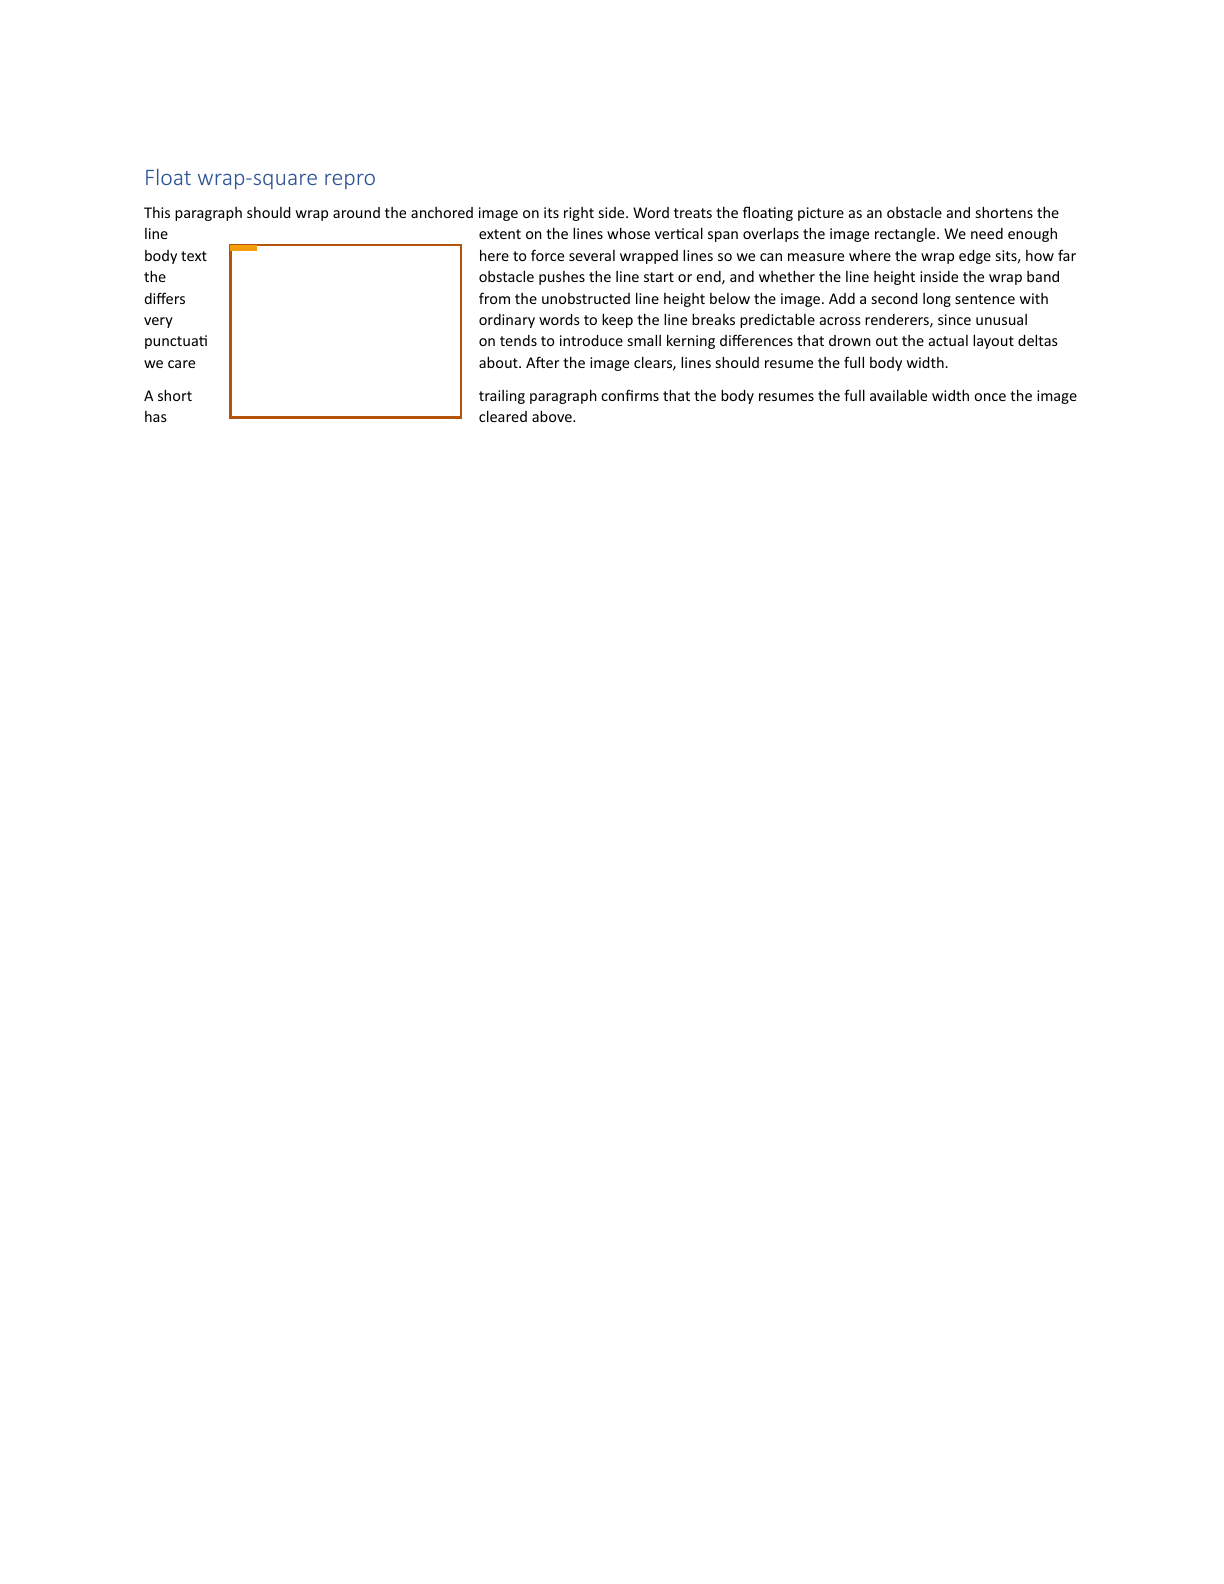
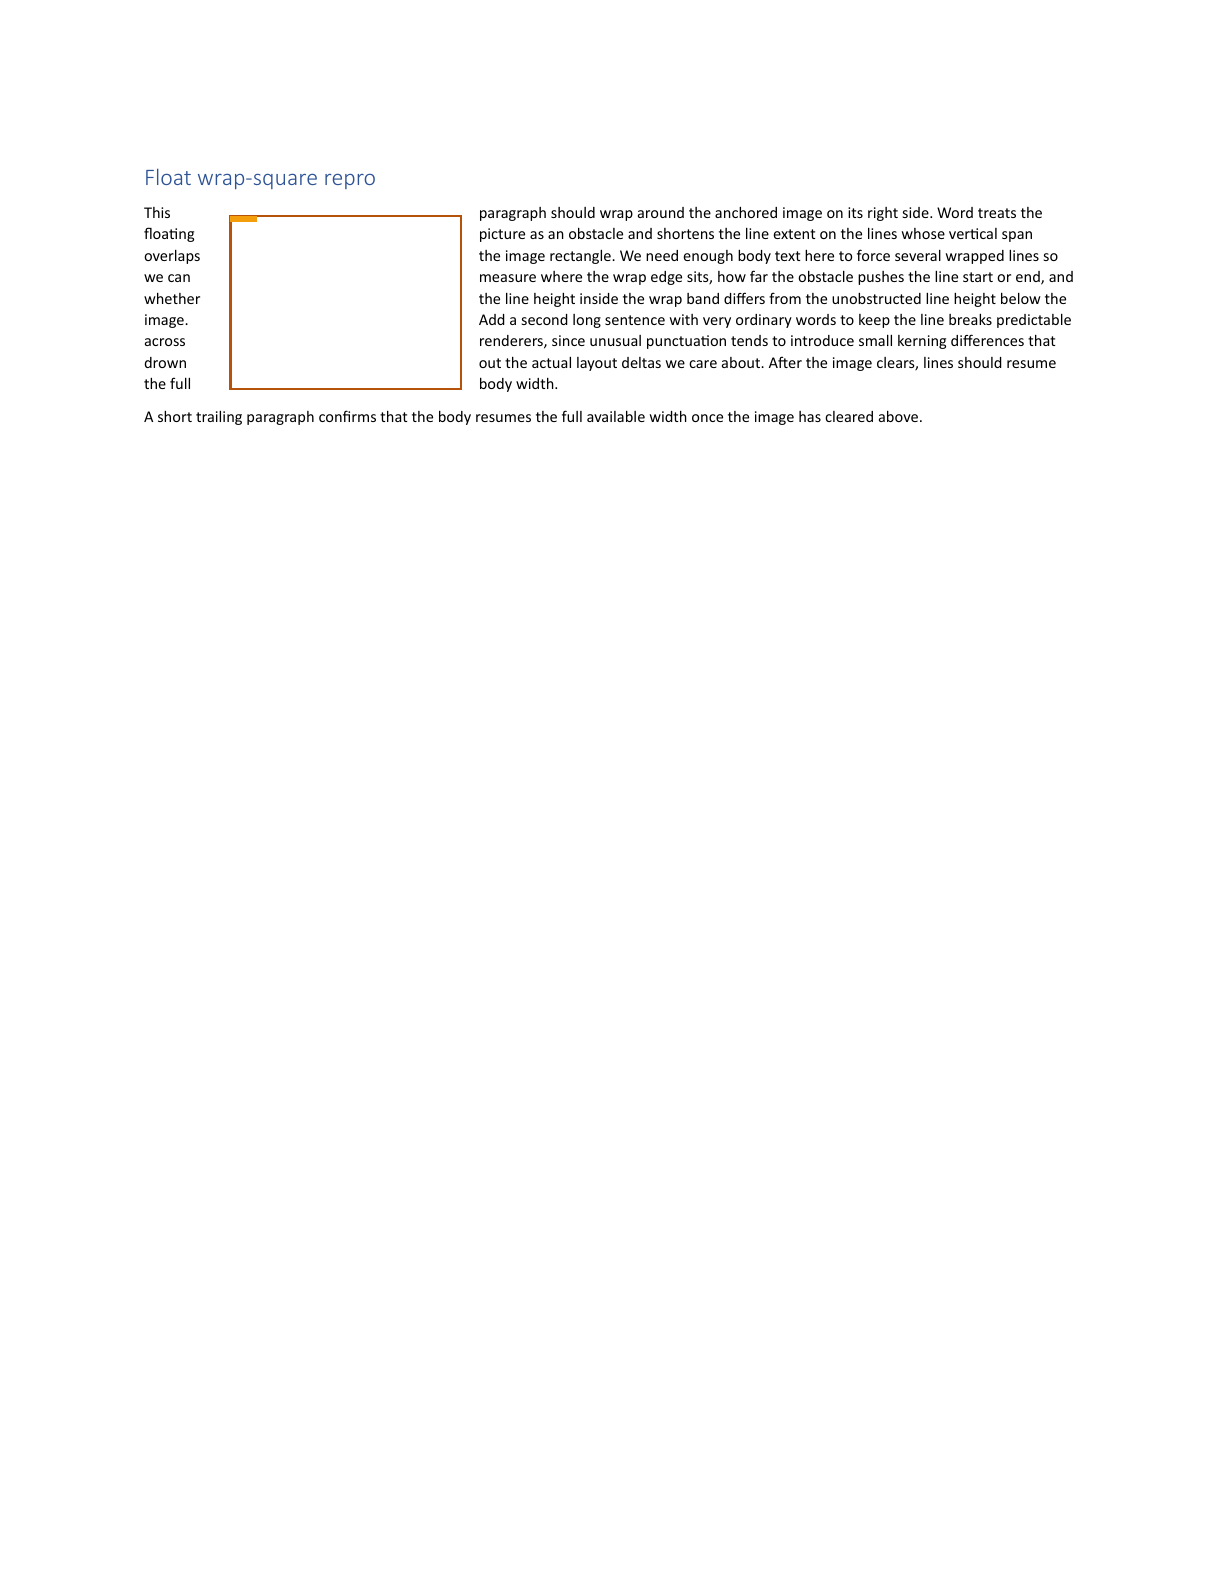
Reposition float repro so body line 1 wraps, refresh parity-doc rows
Original repro anchored the picture at posV=1.7" so our body paragraph's
first line missed the image vertical span and stayed full-width — a
heading line-height discrepancy (ours is ~7pt shorter than Word's
Calibri Light 16pt) was masking the both-sides wrap demonstration in
the after-state. Move the image to posV=1.5" so line 1 definitely
overlaps the picture in both Word and our renderers.

Re-capture all four renders (Word reference + PDF before/after +
browser before/after) on the new repro, replace docs/images/ PNGs,
and rewrite the row captions so they describe what's actually visible
rather than what the original repro was intended to show. New after-
state PDF render demonstrates clean heading text, correct image size,
both-sides wrap with mostly word-aligned breaks (we still don't split
the heading like Word — tracked as the heading line-height task).

Changed region(s): [[0.1242, 0.1237, 0.8693, 0.2784]]

diff --git a/docs/word-parity-fixes.html b/docs/word-parity-fixes.html
@@ -154,19 +154,19 @@
           <div class="zoom">
             <img src="images/word/float-image-wrap-square-word.png" style="--w:1224px; --x:80px; --y:120px; --s:0.55" alt="Word reference wrap-square float">
           </div>
-          <div class="caption">Word draws a Calibri Light heading, an anchored 1.6&quot;&times;1.2&quot; picture, and wraps the body around it on both sides.</div>
+          <div class="caption">Word's heading sits over the image top and Word splits it into <code>Float</code> | <code>wrap-square repro</code> around the picture. The body wraps on both sides, with short tokens (<code>This</code>, <code>side.</code>, <code>line</code>, <code>far the</code>, <code>inside</code>) fitting in the narrow left strip.</div>
         </td>
         <td>
           <div class="zoom">
             <img src="images/baseline/float-image-wrap-square-pdf-before.png" style="--w:1224px; --x:80px; --y:120px; --s:0.55" alt="Before wrap-square float rendering fixes">
           </div>
-          <div class="caption">Before: PDF heading collapses to <code>Floatwrap-squarerepro</code> with no spaces (no Calibri Light face registered, fell through the simple-literal text path), and the image renders at <code>~75%</code> of its declared size because Layout fed pt-as-px through Paint while <code>scalePageOps</code> scaled the page a second time.</div>
+          <div class="caption">Before: PDF heading collapses to <code>Floatwrap-squarerepro</code> (no Calibri Light face registered, fell through the simple-literal text path), the image renders at <code>~75%</code> of its declared size (Layout fed pt-as-px through Paint, then <code>scalePageOps</code> scaled the page a second time), and the body wraps on the right side only because <code>wrapBoundsForY</code> collapsed each obstructed y to a single range.</div>
         </td>
         <td>
           <div class="zoom">
             <img src="images/browser/float-image-wrap-square-pdf-after.png" style="--w:1224px; --x:80px; --y:120px; --s:0.55" alt="After wrap-square float rendering fixes">
           </div>
-          <div class="caption">After: heading uses Calibri Light via the embedded-text path, the image renders at the authored <code>1.6&quot;&times;1.2&quot;</code> (<code>233&times;175px</code> at 144 DPI vs Word's <code>231&times;174px</code>), and the body line whose bottom crosses the image top wraps right rather than running through the picture.</div>
+          <div class="caption">After: clean Calibri Light heading, image at the authored <code>1.6&quot;&times;1.2&quot;</code> (<code>233&times;175px</code> at 144 DPI vs Word's <code>231&times;174px</code>), and body text wraps on both sides &mdash; left strip carries <code>This</code>, <code>floating</code>, <code>overlaps</code>, <code>we can</code>, <code>whether</code>, <code>image.</code>, <code>across</code>, <code>drown</code>, <code>the full</code>. The PDF shaper still doesn't split the heading like Word does (heading line height differs &mdash; tracked separately).</div>
         </td>
         <td>
           <p><strong>Fix:</strong> three independent precondition fixes for float-layout parity work.</p>
@@ -203,7 +203,7 @@
           <div class="zoom">
             <img src="images/browser/float-image-wrap-square-browser-after.png" style="--w:900px; --x:60px; --y:90px; --s:0.75" alt="After both-sides float wrap fix">
           </div>
-          <div class="caption">After: the layout walker keeps a <code>pendingIntervals</code> queue. Each <code>flushLine</code> pops the next free strip at the current y before deciding whether to advance y, so text flows left strip &rarr; right strip on the same visual line. Browser canvas shaping naturally word-aligns: left strip shows <code>This</code>, <code>side.</code>, <code>line</code>, <code>so we</code>, <code>pushes</code>, <code>band</code>.</div>
+          <div class="caption">After: the layout walker keeps a <code>pendingIntervals</code> queue. Each <code>flushLine</code> pops the next free strip at the current y before deciding whether to advance y, so text flows left strip &rarr; right strip on the same visual line. Browser canvas shaping word-aligns: left strip shows <code>This</code>, <code>side.</code>, <code>line</code>, <code>rectang</code>, <code>so we</code>, <code>pushes</code> &mdash; very close to Word's pattern.</div>
         </td>
         <td>
           <p><strong>Fix:</strong> generalise the obstacle-aware wrap from a single available range to a list of free intervals.</p>

diff --git a/tools/word-parity/create-float-repros.py b/tools/word-parity/create-float-repros.py
@@ -253,13 +253,14 @@ def build_wrap_square_repro() -> tuple[str, str, list]:
     Geometry:
       - 8.5"x11" letter, 1" margins, so body width is 6.5" = 5,943,600 EMU.
       - Image is 1.6"x1.2" (1,463,040 x 1,097,280 EMU) anchored 1.6" right of
-        page-left and 1.7" below page-top, putting it inside the body box
-        with text wrapping on both sides.
+        page-left and 1.5" below page-top — just under the heading so the
+        first body line vertically overlaps the picture in both Word and
+        our renderers, making the both-sides wrap straightforward to read.
     """
     image_width_emu = int(1.6 * EMU_PER_INCH)
     image_height_emu = int(1.2 * EMU_PER_INCH)
     pos_h_emu = int(1.6 * EMU_PER_INCH)
-    pos_v_emu = int(1.7 * EMU_PER_INCH)
+    pos_v_emu = int(1.5 * EMU_PER_INCH)
 
     drawing_run = anchored_image_xml(
         "rId100", "Float repro image",
